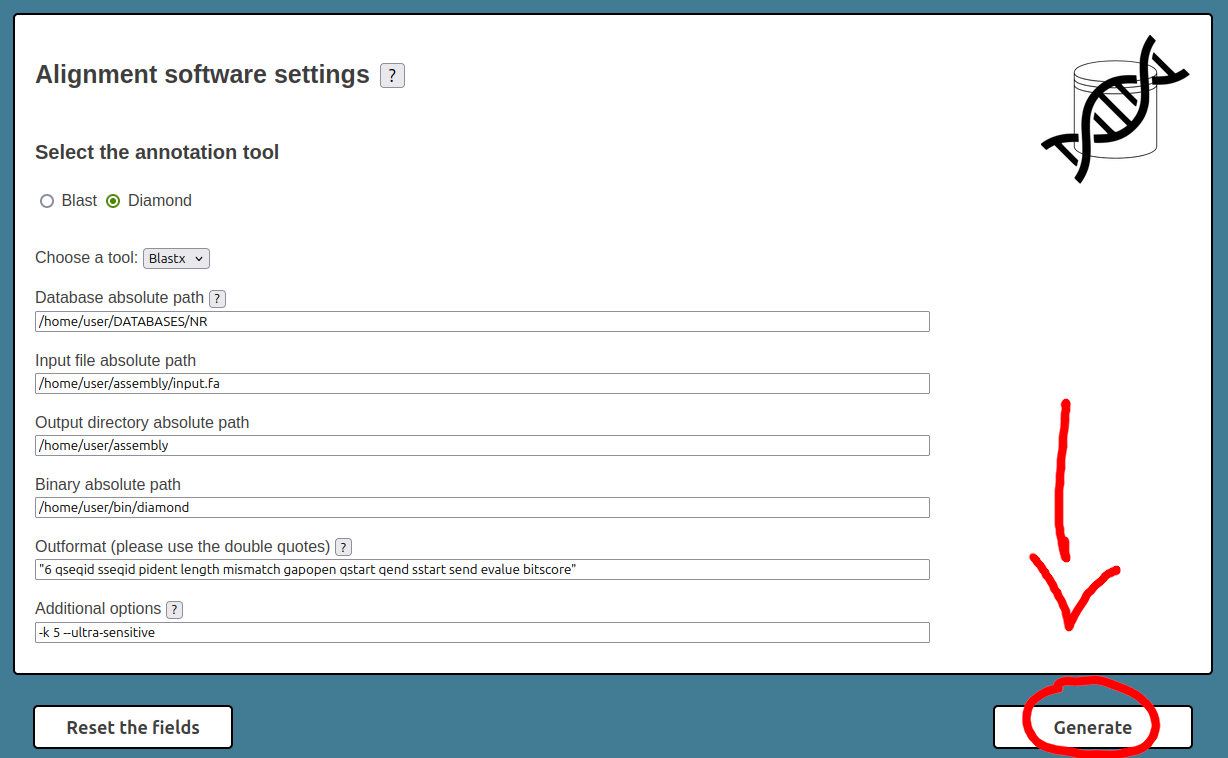
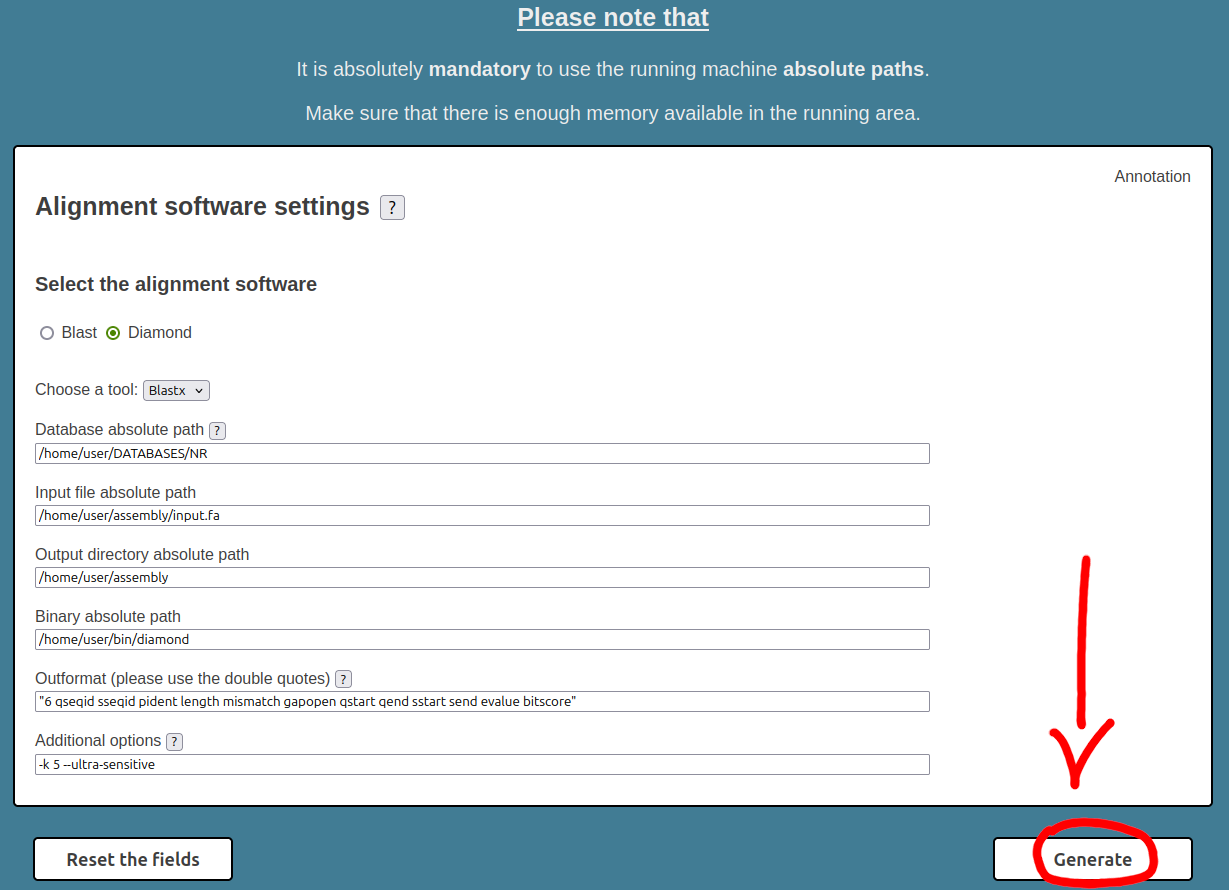
ok

Changed region(s): [[0.0, 0.0, 0.9902, 0.2731], [0.0, 0.5158, 0.9902, 1.0], [0.0309, 0.3034, 0.2785, 0.5158]]

diff --git a/flask/app/templates/help.html b/flask/app/templates/help.html
@@ -211,16 +211,16 @@
             <p>Assume you have to run the BLASTX software on a transcriptome file <i>input.fa</i> against the <i>NR</i> database.</p> 
             <p>Let</p>
             <ul>
-                <li><i>/home/user/assembly/input.fa</i> be the transcriptome file absolute path and</li>
-                <li><i>/home/user/DATABASES/NR</i> be the database absolute path.</li>
+                <li><i>/home/user/assembly/input.fa</i> be the transcriptome file's absolute path and</li>
+                <li><i>/home/user/DATABASES/NR</i> be the database's absolute path.</li>
             </ul>
-            <p>Suppose also that you have a HPC cluster, with SLURM workload manager, at your disposal. Both the transcriptome file and the database (and the executable binary as well) are already available on the cluster. 
-               You can run HPC-T-Annotatoron your cluster by generating all the necessary files through our interface, filling the form follows.</p>
+            <p>Suppose also that you have an HPC cluster, with the SLURM workload manager, at your disposal. Both the transcriptome file and the database (and the executable binary as well) are already available on the cluster. 
+               You can run HPC-T-Annotator on your cluster by generating all the necessary files through our interface, filling out the form as follows.</p>
             
             <img src="static/example_1.png" alt="HPC-T-Annotator example" style="width: 100%;">
             <img src="static/example_2.png" alt="HPC-T-Annotator example" style="width: 100%;">
-
-            The image above shows the filled HPC-T-Annotator interface. In this contest, we have assumed that:
+        
+            <p>The images above show the filled HPC-T-Annotator interface. In this context, we have assumed that:</p>
             <ul>
                 <li><b>Job name:</b> is "my_test_job".</li>
                 <li><b>Account name:</b> is "job_account".</li> 
@@ -231,57 +231,56 @@
                 <li><b>Wall time (hours):</b> is 1.</li>
                 <li><b>Memory per process (GB):</b> is 15.</li>
             </ul>
-
-            and the following software settings:
+        
+            <p>and the following software settings:</p>
             <ul>
-                <li><b>Annotation Software:</b> is Diamond.</li>
+                <li><b>Alignment Software:</b> is Diamond.</li>
                 <li><b>Tool:</b> is BLASTX.</li>
                 <li><b>Database:</b> is <i>/home/user/DATABASES/NR</i>.</li>
                 <li><b>Input file:</b> is <i>/home/user/assembly/input.fa</i>.</li>
                 <li><b>Outdir:</b> is <i>/home/user/assembly</i>.</li>
                 <li><b>Binary:</b> is <i>/home/user/bin/diamond</i>.</li>
                 <li><b>Outformat:</b> is <i>"6 qseqid sseqid pident length mismatch gapopen qstart qend sstart send evalue bitscore"</i>.</li>
-                <li><b>Additional options:</b> is <i>-k 5 --ultra-sensitive</i>.</li>
+                <li><b>Additional options:</b> are <i>-k 5 --ultra-sensitive</i>.</li>
             </ul>
-
-            Now, all we have to do is to click on "Generate" button and the interface automatically generates the software package in TAR format. 
-            After that, you can upload the package to your HPC cluster, using the <b>scp</b> Unix command as follows:
-
-            <br><br>
-
+        
+            <p>Now, all we have to do is click on the "Generate" button and the interface automatically generates the software package in TAR format. 
+            After that, you can upload the package to your HPC cluster using the <b>scp</b> Unix command as follows:</p>
+        
+            <br>
+        
             <div class="code-cell">
                 scp hpc-t-annotator.tar user@<i>cluster_domain</i>:<i>path</i>/hpc-t-annotator.tar
             </div>
-
+        
             <br>
-
-            Where <i>cluster_domain</i> is the domain name of the HPC cluster, <i>path</i> is the path where the software package is uploaded and <i>user</i> is the user name of your account on the HPC cluster.
-
-            <br><br>
-
-            Now, you have to exctract the software package using the <b>tar</b> Unix command as follows:
-
-            <br><br>
-
+        
+            <p>Where <i>cluster_domain</i> is the domain name of the HPC cluster, <i>path</i> is the path where the software package is uploaded, and <i>user</i> is the username of your account on the HPC cluster.</p>
+        
+            <br>
+        
+            <p>Now, you have to extract the software package using the <b>tar</b> Unix command as follows:</p>
+        
+            <br>
+        
             <div class="code-cell">
                 tar -xf hpc-t-annotator.tar && rm hpc-t-annotator.tar
             </div>
-
+        
             <br>
-
-            After that, you can run the <b>start.sh</b> script using the HPC cluster using the following command:
-
-            <br><br>
-
+        
+            <p>After that, you can run the <b>start.sh</b> script on the HPC cluster using the following command:</p>
+        
+            <br>
+        
             <div class="code-cell">
                 sbatch start.sh
             </div>
-
+        
             <br>
-
-            <p>After the computation process has ended (check the general.log file for the status), the final result will be in <b>/home/user/assembly/final_blast.tsv</b> file.</p>
+        
+            <p>After the computation process has ended (check the general.log file for the status), the final result will be in the <b>/home/user/assembly/final_blast.tsv</b> file.</p>
         </div>
-    </div>
 </div>
 </body>
 </html>

diff --git a/flask/app/templates/start.html b/flask/app/templates/start.html
@@ -136,7 +136,7 @@
                         </button>
                     </div>
                     <div class="SAT">
-                        <h4>Select the annotation tool</h4>
+                        <h4>Select the alignment software</h4>
                         <input type="radio" id="blast" value="blast" name="annotation_software">
                         <label for="blast">Blast</label>
                         <input type="radio" id="diamond" value="diamond" name="annotation_software" checked>
